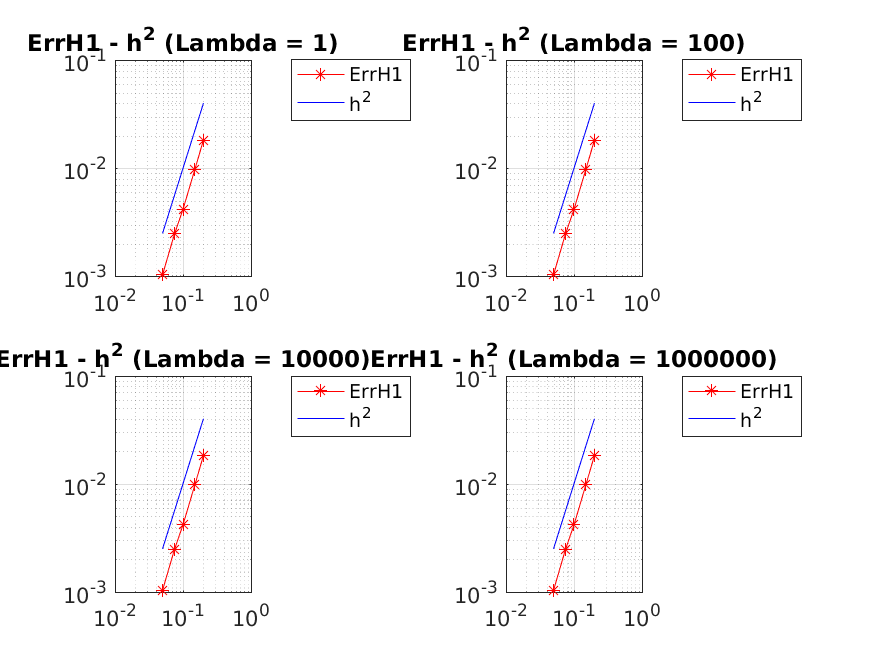
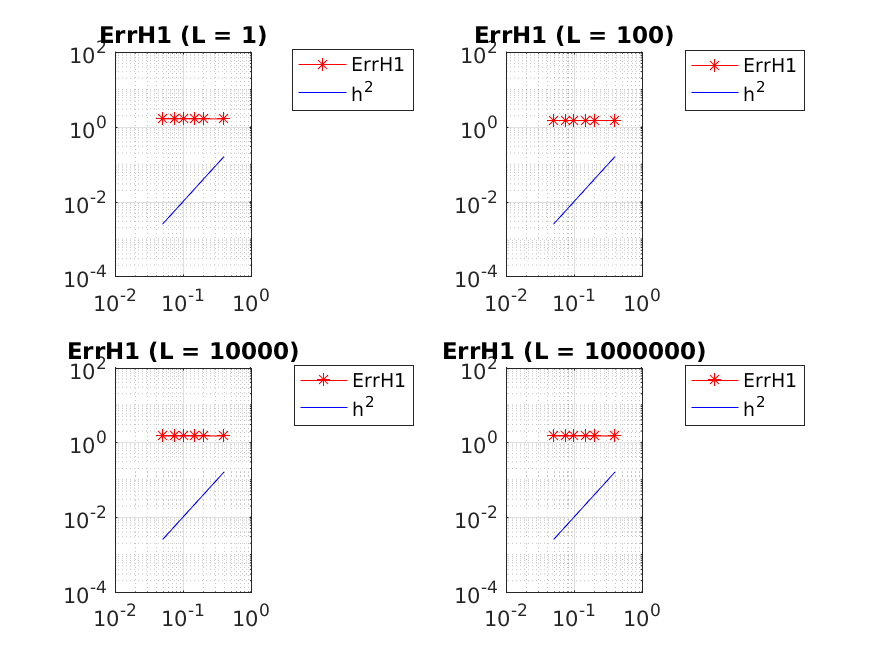
Update

diff --git a/Progetto/P2_Vect_vol.m b/Progetto/P2_Vect_vol.m
@@ -1,5 +1,5 @@
 %
-function [errL2, errH1] = P2_Vect (...
+function [errL2, errH1] = P2_Vect_vol (...
                                             xv, yv, ...
                                             vertices, ...
                                             edges, ...
@@ -86,6 +86,10 @@ for iele=1:nele
     x3 = xv(v3);
     y3 = yv(v3);
     %
+    % baricentro del triangolo
+    xb = (x1+x2+x3)/3;
+    yb = (y1+y2+y3)/3;    
+    %
     % Jacobiana della trasformazione F
     %
     JF = [x2-x1 x3-x1
@@ -104,11 +108,11 @@ for iele=1:nele
     KE = zeros(6,6);
     %
     for i=1:6
-        for j=1:i-1
-            KE(i,j) = KE(j,i);
-        end
-        %
-        for j=i:6
+%         for j=1:i-1
+%             KE(i,j) = KE(j,i);
+%         end
+%         %
+        for j=1:6
             for q=1:Nq
                 %
                 % calcoliamo l'immagine (xq,yq) sul triangolo
@@ -124,15 +128,18 @@ for iele=1:nele
                 tmp = dot(... % Grad:Grad Term
                       (JFIT*[gphihqx(j,q);gphihqy(j,q)]),...
                       (JFIT*[gphihqx(i,q);gphihqy(i,q)])...
-                      ) + lambda*... % Divergence Term
-                      sum(JFIT*[gphihqx(j,q);gphihqy(j,q)])*...
-                      sum(JFIT*[gphihqx(i,q);gphihqy(i,q)]);
-                %
+                      );
+               %
                 KE(i,j) = KE(i,j) + tmp*whq(q);
                %  KE(i,j) = KE(i,j) + c(xq,yq)*tmp*whq(q);            
             end
             %
-            KE(i,j) = 2*area*KE(i,j);
+            % Divergence Term
+            % Barycenter Integration Formula for
+            % lambda*div(phi_j)*div(phi_i)
+            vol = lambda*divphih2(j,xq,yq)*divphih2(i,xq,yq);
+            %
+            KE(i,j) = 2*area*KE(i,j) + area*vol;
         end
     end
     KE = [KE,zeros(6);zeros(6),KE]; % matrice duplicata ("vettoriale")
@@ -330,9 +337,7 @@ end
 %
 
 errL2 = sqrt(errL2sq/uL2);  % Relative L2 Error
-errH1 = sqrt(errH1sq/uH1);  % Relative
-% errL2 = sqrt(errL2sq);  % L2 Error
-% errH1 = sqrt(errH1sq);  % H1 Errore H1 Error
+errH1 = sqrt(errH1sq/uH1);  % Relative H1 Error
 
 if (strcmp(out,'yes'))
     disp(['      L2 Error (Relative): ' num2str(errL2)]);
@@ -359,16 +364,12 @@ for k=1:size(vertices,1)
     vert_temp=[xv(index),yv(index); xv(index(1)),yv(index(1))];
     fill3(vert_temp(:,1),vert_temp(:,2),uu_tmp,uu_tmp); 
 end
-title('Approximated Solution');
 view(3)
 grid on
 colorbar
 hold off    
 end
-      
-
-
-
+        
 % ----------------------------------
 % PLOT DELLA SOLUZIONE uh COME FRECCE AI VERTICI
 % ----------------------------------        

diff --git a/Progetto/main_vol.m b/Progetto/main_vol.m
@@ -43,20 +43,19 @@ for i=1:n
     
     %%% Error Computation
     % [uh(i), errL2(i), errH1(i)] = main_P2_Vect (...
-    [errL2(i,j), errH1(i,j)] = P2_Vect (...
-                                         xv, yv, ...
-                                         vertices, ...
-                                         edges, ...
-                                         endpoints, ...
-                                         boundary, ...
-                                         boundedges, ...
-                                         lambda(j), ...
-                                         out, plot ...
-                                         );
-                                     
-    disp(['    errL2 = ', num2str(errL2(i,j))]);
-    disp(['    errH1 = ', num2str(errH1(i,j))]);
-                                   
+    [errL2(i,j), errH1(i,j)] = P2_Vect_vol (...
+                                            xv, yv, ...
+                                            vertices, ...
+                                            edges, ...
+                                            endpoints, ...
+                                            boundary, ...
+                                            boundedges, ...
+                                            lambda(j), ...
+                                            out, plot ...
+                                            );
+   
+     disp(['    errL2 = ', num2str(errL2(i,j))]);
+     disp(['    errH1 = ', num2str(errH1(i,j))]);
     
 end
 end
@@ -66,9 +65,10 @@ clc
 disp(['h = ', num2str(h)]);
 disp(' ');
 
+
 % Plot Loop
  for j=1:nl
-     
+    
   disp(['lambda = ', num2str(lambda(j))]); 
   disp(['     errL2 = ', num2str(errL2(:,j)')]);
   disp(['     errH1 = ', num2str(errH1(:,j)')]); 
@@ -81,9 +81,9 @@ disp(' ');
     loglog (h, errL2(:,j), '-*r', h, h.^3,'-b');
     grid on;
     legend ('ErrL2', 'h^3', 'location', 'northeastoutside');
-    title (['ErrL2 (L = ', num2str(lambda(j)), ')']);
+    title (['Vol: ErrL2 (L = ', num2str(lambda(j)), ')']);
   
-  saveas (1, 'convL2.png');
+  saveas (1, 'vol_convL2.png');
   
 % 
 %  Figure 2
@@ -94,9 +94,9 @@ disp(' ');
       subplot(2, 2, j), loglog (h, errH1(:,j), '-*r', h, h.^2,'-b');
       grid on;
       legend ('ErrH1', 'h^2', 'location', 'northeastoutside');
-      title (['ErrH1 (L = ', num2str(lambda(j)), ')']);
+      title (['Vol: ErrH1 (L = ', num2str(lambda(j)), ')']);
 
-  saveas (2, 'convH1.png'); 
+  saveas (2, 'vol_convH1.png'); 
   
      
   end

diff --git a/Progetto/uexactG.m b/Progetto/uexactG.m
@@ -6,9 +6,16 @@ function Z=uexactG(x,y,k)
 
 % PROBLEMA "TRIGONOMETRICO"
 
+% if k==1        % prima componente
+%     Z = pi*[cos(x*pi).*sin(y*pi);sin(x*pi).*cos(y*pi)];
+% elseif k==2    % seconda componente
+%     Z = 3*pi*[cos(x*pi).*sin(y*pi);sin(x*pi).*cos(y*pi)];
+% end
+
+
 if k==1        % prima componente
-    Z = pi*[cos(x*pi).*sin(y*pi);sin(x*pi).*cos(y*pi)];
+    Z = x*y*(x^2 - 1)*(y^2 - 1);
 elseif k==2    % seconda componente
-    Z = 3*pi*[cos(x*pi).*sin(y*pi);sin(x*pi).*cos(y*pi)];
+    Z = -x*y*(x^2 - 1)*(y^2 - 1);
 end
 

diff --git a/Progetto/carico2.m b/Progetto/carico2.m
@@ -1,9 +1,13 @@
-function z=carico2(x,y)
-% -------
-% carico a due componenti, questa e' la seconda
-% -------
+function f = carico2(x,y)
+%CARICO2
+%    F = CARICO2(X,Y)
 
-% PROBLEMA "TRIGONOMETRICO"
+%    This function was generated by the Symbolic Math Toolbox version 7.1.
+%    07-Feb-2017 01:29:05
 
-z = 3*sin(x*pi).*sin(y*pi)*(2*pi^2);
-
+t3 = y.^2;
+t2 = t3-1.0;
+t4 = t2.^2;
+t5 = x.^2;
+t6 = t5-1.0;
+f = t4.*t5.*5.0e5+t4.*t6.*2.5e5+t4.*x.*(3.0./2.0)+t2.*t6.*x+t3.*t6.*x.*2.0+t2.*t6.*x.*y.*1.0e6;

diff --git a/Progetto/carico1.m b/Progetto/carico1.m
@@ -1,9 +1,13 @@
-function z=carico1(x,y)
-% -------
-% carico a due componenti, questa e' la prima
-% -------
+function f = carico1(x,y)
+%CARICO1
+%    F = CARICO1(X,Y)
 
-% PROBLEMA "TRIGONOMETRICO"
+%    This function was generated by the Symbolic Math Toolbox version 7.1.
+%    07-Feb-2017 01:29:05
 
-z = sin(x*pi).*sin(y*pi)*(2*pi^2);
-
+t3 = x.^2;
+t2 = t3-1.0;
+t4 = t2.^2;
+t5 = y.^2;
+t6 = t5-1.0;
+f = t4.*t5.*-5.0e5-t4.*t6.*2.5e5-t4.*y.*(3.0./2.0)-t2.*t6.*y-t3.*t6.*y.*2.0-t2.*t6.*x.*y.*1.0e6;

diff --git a/Progetto/carico.m b/Progetto/carico.m
@@ -1,0 +1,23 @@
+function [] = carico (lambda) 
+
+syms x y real;
+
+
+% Prima Componente
+ue = 0.25*((x^2 - 1)^2)*(y^2 - 1)*y;
+
+uex = diff(ue,x);
+uey = diff(ue,y);
+f = -diff(uex,x) -diff(uey,y) - lambda*(uex + uey);
+car1 = matlabFunction(f,'File','carico1');
+
+
+% Seconda Componente
+ue = 0.25*((y^2 - 1)^2)*(1 - x^2)*x;
+
+uex = diff(ue,x);
+uey = diff(ue,y);
+f = -diff(uex,x) -diff(uey,y) - lambda*(uex + uey);
+car2 = matlabFunction(f,'File','carico2');
+
+reset(symengine)

diff --git a/Progetto/uexact.m b/Progetto/uexact.m
@@ -4,10 +4,14 @@ function z=uexact(x,y,k)
 % -------
 
 % PROBLEMA "TRIGONOMETRICO"
+%if k==1        % prima componente
+%    z = sin(x*pi).*sin(y*pi);
+%elseif k==2    % seconda componente
+%    z = 3*sin(x*pi).*sin(y*pi);
+%end
 
 if k==1        % prima componente
-    z = sin(x*pi).*sin(y*pi);
+    z = 0.25*((x^2 - 1)^2)*(y^2 - 1)*y;
 elseif k==2    % seconda componente
-    z = 3*sin(x*pi).*sin(y*pi);
+    z = 0.25*((y^2 - 1)^2)*(1 - x^2)*x;
 end
-

diff --git a/Progetto/divphih2.m b/Progetto/divphih2.m
@@ -1,0 +1,6 @@
+function [z]=divphih2(i,x,y)
+
+% Divergenza come somma delle componenti del gradiente
+[gx, gy] = gradhphih2 (i, x, y);
+
+z = gx + gy;
